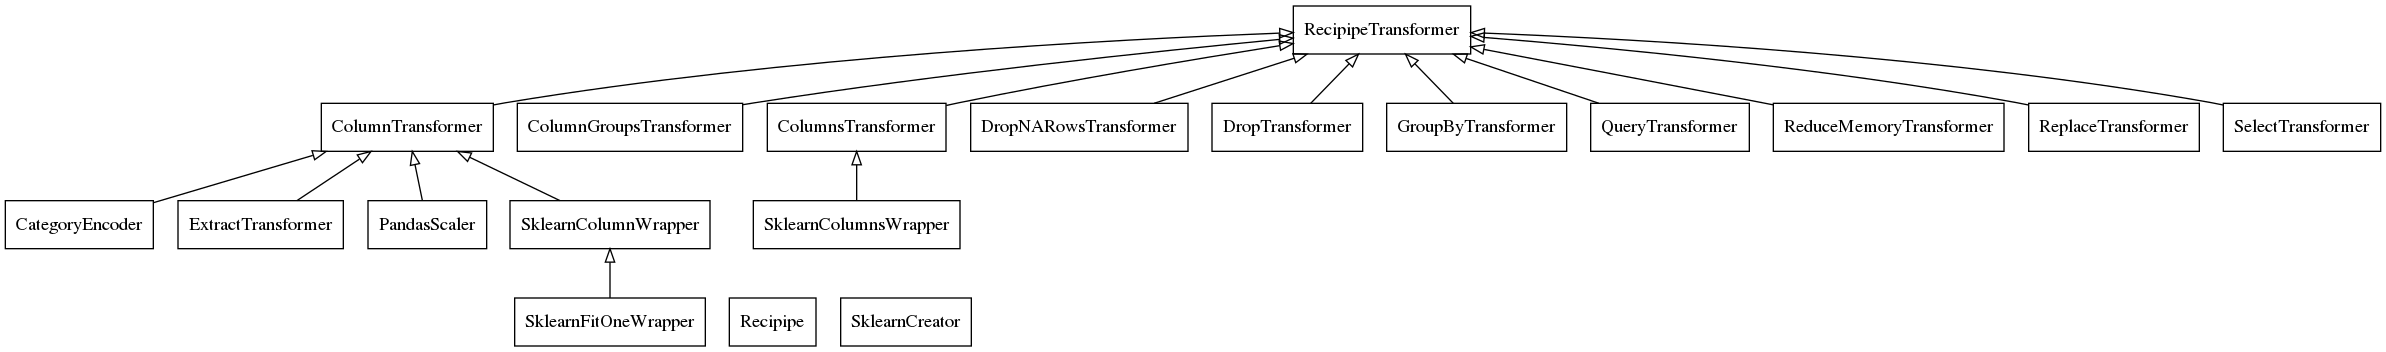
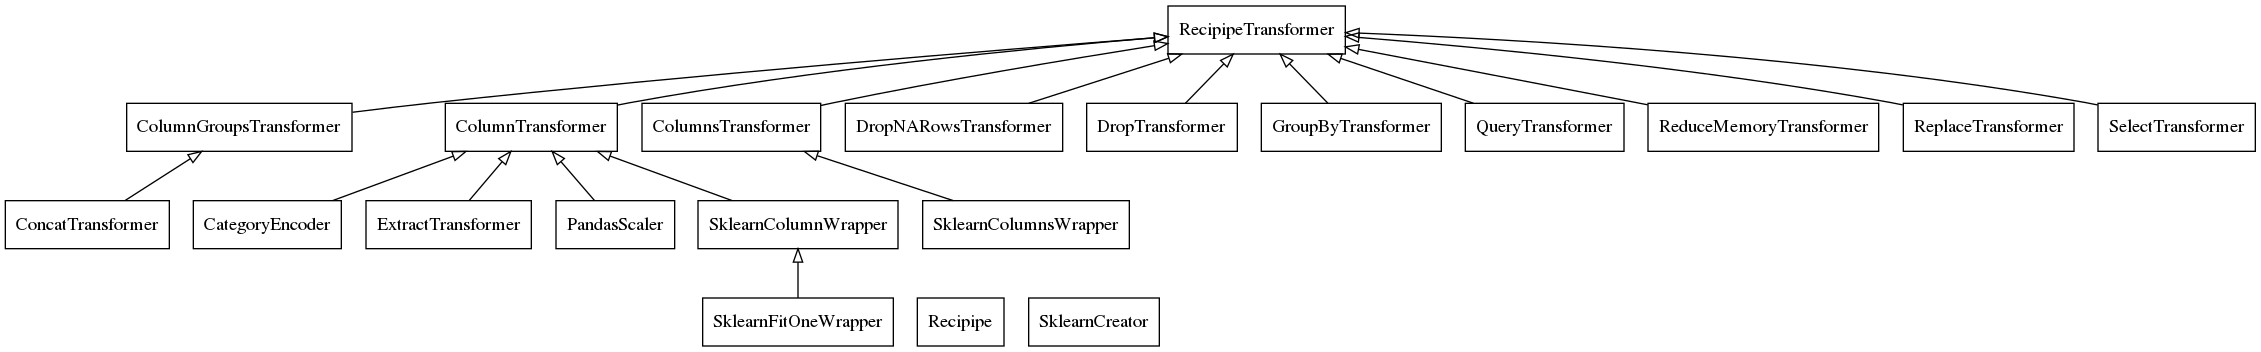
Deploying to gh-pages from  @ 91755f7912239962f2c9587c271de38e77a5c14c 🚀

diff --git a/searchindex.js b/searchindex.js
@@ -1,1 +1,1 @@
-Search.setIndex({docnames:["diagrams","index","installation","recipipe"],envversion:{"sphinx.domains.c":2,"sphinx.domains.changeset":1,"sphinx.domains.citation":1,"sphinx.domains.cpp":2,"sphinx.domains.index":1,"sphinx.domains.javascript":2,"sphinx.domains.math":2,"sphinx.domains.python":2,"sphinx.domains.rst":2,"sphinx.domains.std":1,"sphinx.ext.intersphinx":1,"sphinx.ext.viewcode":1,sphinx:56},filenames:["diagrams.rst","index.rst","installation.rst","recipipe.rst"],objects:{"":{recipipe:[3,0,0,"-"]},"recipipe.core":{Recipipe:[3,1,1,""],RecipipeTransformer:[3,1,1,""]},"recipipe.core.Recipipe":{__abstractmethods__:[3,2,1,""],__add__:[3,3,1,""],__init__:[3,3,1,""],__module__:[3,2,1,""],add:[3,3,1,""],steps:[3,2,1,""]},"recipipe.core.RecipipeTransformer":{__init__:[3,3,1,""],__module__:[3,2,1,""],fit:[3,3,1,""],get_column_mapping:[3,3,1,""],inverse_transform:[3,3,1,""],name:[3,2,1,""],transform:[3,3,1,""]},"recipipe.transformers":{CategoryEncoder:[3,1,1,""],ColumnGroupsTransformer:[3,1,1,""],ColumnTransformer:[3,1,1,""],ColumnsTransformer:[3,1,1,""],DropNARowsTransformer:[3,1,1,""],DropTransformer:[3,1,1,""],ExtractTransformer:[3,1,1,""],GroupByTransformer:[3,1,1,""],PandasScaler:[3,1,1,""],QueryTransformer:[3,1,1,""],ReduceMemoryTransformer:[3,1,1,""],ReplaceTransformer:[3,1,1,""],SelectTransformer:[3,1,1,""],SklearnColumnWrapper:[3,1,1,""],SklearnColumnsWrapper:[3,1,1,""],SklearnCreator:[3,1,1,""],SklearnFitOneWrapper:[3,1,1,""]},"recipipe.transformers.CategoryEncoder":{__init__:[3,3,1,""],__module__:[3,2,1,""]},"recipipe.transformers.ColumnGroupsTransformer":{__init__:[3,3,1,""],__module__:[3,2,1,""],get_column_mapping:[3,3,1,""]},"recipipe.transformers.ColumnTransformer":{__module__:[3,2,1,""],fit:[3,3,1,""]},"recipipe.transformers.ColumnsTransformer":{__module__:[3,2,1,""]},"recipipe.transformers.DropNARowsTransformer":{__init__:[3,3,1,""],__module__:[3,2,1,""],inverse_transform:[3,3,1,""],transform:[3,3,1,""]},"recipipe.transformers.DropTransformer":{__module__:[3,2,1,""],inverse_transform:[3,3,1,""],transform:[3,3,1,""]},"recipipe.transformers.ExtractTransformer":{__init__:[3,3,1,""],__module__:[3,2,1,""],get_column_mapping:[3,3,1,""]},"recipipe.transformers.GroupByTransformer":{__init__:[3,3,1,""],__module__:[3,2,1,""],fit:[3,3,1,""],fit_group:[3,3,1,""],inverse_transform:[3,3,1,""],inverse_transform_group:[3,3,1,""],transform:[3,3,1,""],transform_group:[3,3,1,""]},"recipipe.transformers.PandasScaler":{__init__:[3,3,1,""],__module__:[3,2,1,""]},"recipipe.transformers.QueryTransformer":{__init__:[3,3,1,""],__module__:[3,2,1,""],transform:[3,3,1,""]},"recipipe.transformers.ReduceMemoryTransformer":{__init__:[3,3,1,""],__module__:[3,2,1,""],transform:[3,3,1,""]},"recipipe.transformers.ReplaceTransformer":{__init__:[3,3,1,""],__module__:[3,2,1,""]},"recipipe.transformers.SelectTransformer":{__module__:[3,2,1,""],inverse_transform:[3,3,1,""],transform:[3,3,1,""]},"recipipe.transformers.SklearnColumnWrapper":{__init__:[3,3,1,""],__module__:[3,2,1,""],get_column_mapping:[3,3,1,""]},"recipipe.transformers.SklearnColumnsWrapper":{__init__:[3,3,1,""],__module__:[3,2,1,""],get_column_mapping:[3,3,1,""]},"recipipe.transformers.SklearnCreator":{WRAPPERS:[3,2,1,""],__call__:[3,3,1,""],__dict__:[3,2,1,""],__init__:[3,3,1,""],__module__:[3,2,1,""],__weakref__:[3,2,1,""]},"recipipe.transformers.SklearnFitOneWrapper":{__module__:[3,2,1,""]},"recipipe.utils":{add_to_map_dict:[3,4,1,""],default_params:[3,4,1,""],fit_columns:[3,4,1,""],flatten_list:[3,4,1,""],is_categorical:[3,4,1,""],memory_usage_mb:[3,4,1,""]},recipipe:{core:[3,0,0,"-"],greet:[3,4,1,""],transformers:[3,0,0,"-"],utils:[3,0,0,"-"]}},objnames:{"0":["py","module","Python module"],"1":["py","class","Python class"],"2":["py","attribute","Python attribute"],"3":["py","method","Python method"],"4":["py","function","Python function"]},objtypes:{"0":"py:module","1":"py:class","2":"py:attribute","3":"py:method","4":"py:function"},terms:{"class":[1,3],"default":3,"function":3,"import":[2,3],"int":3,"new":3,"return":3,"true":3,For:3,The:[2,3],Use:3,Using:2,__abstractmethods__:3,__add__:3,__call__:3,__dict__:3,__doc__:3,__init__:3,__module__:3,__weakref__:3,_new:3,about:3,accur:3,add:3,add_to_map_dict:3,after:3,alia:3,alias:1,all:[2,3],allow:3,alreadi:3,also:3,alwai:[2,3],ani:[2,3],anoth:3,another_fun:3,anytim:3,append:3,appli:3,arg:3,argument:3,assum:3,attr:3,attribut:3,automat:[2,3],avoid:3,back:3,base:3,baseestim:3,becaus:3,been:3,befor:3,between:3,big:3,binar:3,bool:3,both:3,branch:2,call:3,can:[2,3],cannot:3,captur:3,care:3,categor:3,categori:3,categoryencod:3,chain:3,chang:[2,3],check:3,clone:2,code:1,col:3,col_format:3,col_init:3,col_map:3,col_valu:3,cols_init:3,cols_list:3,cols_not_found_error:3,column:3,columngroupstransform:3,columnstransform:3,columntransform:3,com:2,combin:3,come:3,compat:3,complet:3,comput:3,concaten:3,consid:[2,3],constant:3,constrain:3,construct:3,contain:3,content:1,continu:3,convers:3,convert:3,copi:3,core:1,creat:3,creation:3,current:2,data:3,datafram:3,datatyp:3,deal:3,declar:3,deep:3,def:3,default_dict:3,default_param:3,defin:3,definit:3,delet:3,depend:2,develop:2,df_in:3,diagram:1,dict:3,dictionari:3,differ:3,directori:2,doc:2,doe:3,done:3,download:0,drop:3,drop_dupl:3,dropna:3,dropna_row:3,dropnarowstransform:3,droptransform:3,dtype:3,duplic:3,each:3,eas:3,easi:3,edit:2,element:3,empti:3,encod:3,end:3,environ:2,error:3,error_unknown:3,especi:3,even:3,everyth:2,exact:2,exactli:3,exampl:3,except:3,exclud:3,exclus:3,execut:[2,3],exist:3,extens:3,extra:2,extract:3,extracttransform:3,factor:3,fals:3,few:3,filenam:[2,3],filter:3,first:3,fist:3,fit:3,fit_column:3,fit_group:3,fit_one_col:3,flag:3,flatten:3,flatten_list:3,fnmatch:3,format:0,friendli:3,from:[1,3],from_sklearn:3,frozenset:3,full:0,fun:3,fun_kwarg:3,gener:[2,3],get:3,get_column_map:3,git:2,github:2,give:3,given:3,going:3,good:3,greet:[2,3],group:3,group_column:3,groupbi:3,groupbytransform:3,guiferviz:2,handle_unknown:3,has:3,hashabl:3,have:[2,3],help:3,here:3,how:3,http:2,human:3,ideal:3,ident:3,ignor:3,implement:3,improv:3,imput:3,includ:3,incorpor:3,index:1,indic:3,inform:3,initi:3,inplac:3,input:3,instal:1,instanc:3,instanti:3,instead:3,integ:3,invers:3,inverse_transform:3,inverse_transform_group:3,is_categor:3,isn:3,iter:3,joke:2,keep:3,keep_origin:3,kei:3,know:2,kwarg:3,later:3,latest:2,less:3,like:3,list:3,mai:3,make:3,mani:3,manual:3,map:3,mappingproxi:3,master:2,match:3,memori:3,memory_usag:3,memory_usage_mb:3,method:[2,3],minmax:3,minmaxscal:3,missingind:3,mode:2,modif:3,modifi:3,modul:1,more:3,much:3,must:3,name:3,ndarrai:3,need:[2,3],next:3,non:3,none:3,normal:3,note:3,now:3,num_column:3,number:3,numer:3,numpi:3,object:3,object_to_categori:3,obvious:3,occupi:3,one:3,onehot:3,onehotencod:3,ones:3,onli:3,oper:3,order:3,otherwis:3,output:3,over:3,overwrit:3,packag:[1,2],pain:3,panda:3,pandasscal:3,param:3,paramet:3,particular:3,pass:3,pattern:3,pdf:0,per:3,percentag:3,phase:3,pip:2,pipe:3,pipelin:3,place:3,placehold:3,possibl:3,preprocess:3,print:3,problem:2,process:3,product:2,program:2,project:[2,3],properli:2,provid:3,pypi:1,python:2,quantiti:3,queri:3,querytransform:3,rais:3,raise_error:3,realli:[2,3],reason:3,recipip:2,recipipetransform:3,recommend:2,recurs:3,reduc:3,reduce_memori:3,reducememorytransform:3,refer:3,regex:3,relat:3,relationship:3,remind:3,remov:3,replac:3,replacetransform:3,repositori:2,requir:[2,3],requirements_dev:2,respect:2,rest:3,result:3,reus:3,robust_scal:3,robustscal:3,root:2,row:3,run:2,same:3,satisfi:3,save:3,scale:3,scaler:3,scienc:3,screen:[2,3],see:[2,3],select:3,select_dtyp:3,selecttransform:3,self:3,sens:3,sentenc:3,seri:3,set:3,setuptool:2,sever:3,share:3,should:[2,3],show:3,shown:3,signatur:3,silli:3,similar:2,simpleimput:3,sk_binar:3,sk_indic:3,sk_input:3,sk_onehot:3,sk_scale:3,sk_transform:3,sklearn:3,sklearncolumnswrapp:3,sklearncolumnwrapp:3,sklearncreat:3,sklearnfitonewrapp:3,slow:3,solv:3,some:[2,3],someth:2,sourc:[1,3],spars:3,specif:3,specifi:3,split:3,standar:3,standard:3,standardscal:3,stdout:3,step:3,store:3,str:3,strategi:3,string:3,substitut:3,suport:3,support:3,sure:3,symbol:3,tabl:3,take:3,taken:3,test:1,than:3,thei:3,them:[2,3],thi:3,those:[2,3],thresh:3,time:3,too:3,transform:1,transform_group:3,transformermixin:3,tupl:3,twice:3,two:3,txt:2,type:3,uniqu:3,unix:3,unknown_valu:3,unpack:3,usag:3,use:[2,3],used:3,useful:3,user:3,using:[2,3],util:1,valu:3,valueerror:3,variabl:3,verbos:3,veri:3,version:2,virtual:2,wai:3,want:3,weak:3,well:2,when:3,where:3,which:3,without:3,work:[2,3],wrapper:3,you:[2,3],your:3,yourself:3},titles:["Diagrams","Welcome to Recipipe\u2019s documentation!","Installation","recipipe package"],titleterms:{"class":0,alias:3,code:2,core:3,diagram:0,document:1,from:2,indic:1,instal:2,modul:3,packag:[0,3],pypi:2,recipip:[1,3],sourc:2,test:2,transform:3,util:3,welcom:1}})
+Search.setIndex({docnames:["diagrams","index","installation","recipipe"],envversion:{"sphinx.domains.c":2,"sphinx.domains.changeset":1,"sphinx.domains.citation":1,"sphinx.domains.cpp":2,"sphinx.domains.index":1,"sphinx.domains.javascript":2,"sphinx.domains.math":2,"sphinx.domains.python":2,"sphinx.domains.rst":2,"sphinx.domains.std":1,"sphinx.ext.intersphinx":1,"sphinx.ext.viewcode":1,sphinx:56},filenames:["diagrams.rst","index.rst","installation.rst","recipipe.rst"],objects:{"":{recipipe:[3,0,0,"-"]},"recipipe.core":{Recipipe:[3,1,1,""],RecipipeTransformer:[3,1,1,""]},"recipipe.core.Recipipe":{__abstractmethods__:[3,2,1,""],__add__:[3,3,1,""],__init__:[3,3,1,""],__module__:[3,2,1,""],add:[3,3,1,""],steps:[3,2,1,""]},"recipipe.core.RecipipeTransformer":{__init__:[3,3,1,""],__module__:[3,2,1,""],fit:[3,3,1,""],get_column_mapping:[3,3,1,""],inverse_transform:[3,3,1,""],name:[3,2,1,""],transform:[3,3,1,""]},"recipipe.transformers":{CategoryEncoder:[3,1,1,""],ColumnGroupsTransformer:[3,1,1,""],ColumnTransformer:[3,1,1,""],ColumnsTransformer:[3,1,1,""],ConcatTransformer:[3,1,1,""],DropNARowsTransformer:[3,1,1,""],DropTransformer:[3,1,1,""],ExtractTransformer:[3,1,1,""],GroupByTransformer:[3,1,1,""],PandasScaler:[3,1,1,""],QueryTransformer:[3,1,1,""],ReduceMemoryTransformer:[3,1,1,""],ReplaceTransformer:[3,1,1,""],SelectTransformer:[3,1,1,""],SklearnColumnWrapper:[3,1,1,""],SklearnColumnsWrapper:[3,1,1,""],SklearnCreator:[3,1,1,""],SklearnFitOneWrapper:[3,1,1,""]},"recipipe.transformers.CategoryEncoder":{__init__:[3,3,1,""],__module__:[3,2,1,""]},"recipipe.transformers.ColumnGroupsTransformer":{__init__:[3,3,1,""],__module__:[3,2,1,""],get_column_mapping:[3,3,1,""]},"recipipe.transformers.ColumnTransformer":{__module__:[3,2,1,""],fit:[3,3,1,""]},"recipipe.transformers.ColumnsTransformer":{__module__:[3,2,1,""]},"recipipe.transformers.ConcatTransformer":{__init__:[3,3,1,""],__module__:[3,2,1,""]},"recipipe.transformers.DropNARowsTransformer":{__init__:[3,3,1,""],__module__:[3,2,1,""],inverse_transform:[3,3,1,""],transform:[3,3,1,""]},"recipipe.transformers.DropTransformer":{__module__:[3,2,1,""],inverse_transform:[3,3,1,""],transform:[3,3,1,""]},"recipipe.transformers.ExtractTransformer":{__init__:[3,3,1,""],__module__:[3,2,1,""],get_column_mapping:[3,3,1,""]},"recipipe.transformers.GroupByTransformer":{__init__:[3,3,1,""],__module__:[3,2,1,""],fit:[3,3,1,""],fit_group:[3,3,1,""],inverse_transform:[3,3,1,""],inverse_transform_group:[3,3,1,""],transform:[3,3,1,""],transform_group:[3,3,1,""]},"recipipe.transformers.PandasScaler":{__init__:[3,3,1,""],__module__:[3,2,1,""]},"recipipe.transformers.QueryTransformer":{__init__:[3,3,1,""],__module__:[3,2,1,""],transform:[3,3,1,""]},"recipipe.transformers.ReduceMemoryTransformer":{__init__:[3,3,1,""],__module__:[3,2,1,""],transform:[3,3,1,""]},"recipipe.transformers.ReplaceTransformer":{__init__:[3,3,1,""],__module__:[3,2,1,""]},"recipipe.transformers.SelectTransformer":{__module__:[3,2,1,""],inverse_transform:[3,3,1,""],transform:[3,3,1,""]},"recipipe.transformers.SklearnColumnWrapper":{__init__:[3,3,1,""],__module__:[3,2,1,""],get_column_mapping:[3,3,1,""]},"recipipe.transformers.SklearnColumnsWrapper":{__init__:[3,3,1,""],__module__:[3,2,1,""],get_column_mapping:[3,3,1,""]},"recipipe.transformers.SklearnCreator":{WRAPPERS:[3,2,1,""],__call__:[3,3,1,""],__dict__:[3,2,1,""],__init__:[3,3,1,""],__module__:[3,2,1,""],__weakref__:[3,2,1,""]},"recipipe.transformers.SklearnFitOneWrapper":{__module__:[3,2,1,""]},"recipipe.utils":{add_to_map_dict:[3,4,1,""],default_params:[3,4,1,""],fit_columns:[3,4,1,""],flatten_list:[3,4,1,""],is_categorical:[3,4,1,""],memory_usage_mb:[3,4,1,""]},recipipe:{core:[3,0,0,"-"],greet:[3,4,1,""],transformers:[3,0,0,"-"],utils:[3,0,0,"-"]}},objnames:{"0":["py","module","Python module"],"1":["py","class","Python class"],"2":["py","attribute","Python attribute"],"3":["py","method","Python method"],"4":["py","function","Python function"]},objtypes:{"0":"py:module","1":"py:class","2":"py:attribute","3":"py:method","4":"py:function"},terms:{"class":[1,3],"default":3,"function":3,"import":[2,3],"int":3,"new":3,"return":3,"true":3,For:3,The:[2,3],Use:3,Using:2,__abstractmethods__:3,__add__:3,__call__:3,__dict__:3,__doc__:3,__init__:3,__module__:3,__weakref__:3,_new:3,about:3,accur:3,add:3,add_to_map_dict:3,after:3,alia:3,alias:1,all:[2,3],allow:3,alreadi:3,also:3,alwai:[2,3],ani:[2,3],anoth:3,another_fun:3,anytim:3,append:3,appli:3,arg:3,argument:3,assum:3,attr:3,attribut:3,automat:[2,3],avoid:3,back:3,base:3,baseestim:3,becaus:3,been:3,befor:3,between:3,big:3,binar:3,bool:3,both:3,branch:2,call:3,can:[2,3],cannot:3,captur:3,care:3,categor:3,categori:3,categoryencod:3,chain:3,chang:[2,3],check:3,clone:2,code:1,col:3,col_format:3,col_init:3,col_map:3,col_valu:3,cols_init:3,cols_list:3,cols_not_found_error:3,column:3,columngroupstransform:3,columnstransform:3,columntransform:3,com:2,combin:3,come:3,compat:3,complet:3,comput:3,concat:3,concaten:3,concattransform:3,consid:[2,3],constant:3,constrain:3,construct:3,contain:3,content:1,continu:3,convers:3,convert:3,copi:3,core:1,creat:3,creation:3,current:2,data:3,datafram:3,datatyp:3,deal:3,declar:3,deep:3,def:3,default_dict:3,default_param:3,defin:3,definit:3,delet:3,depend:2,develop:2,df_in:3,diagram:1,dict:3,dictionari:3,differ:3,directori:2,doc:2,doe:3,done:3,download:0,drop:3,drop_dupl:3,dropna:3,dropna_row:3,dropnarowstransform:3,droptransform:3,dtype:3,duplic:3,each:3,eas:3,easi:3,edit:2,element:3,empti:3,encod:3,end:3,environ:2,error:3,error_unknown:3,especi:3,even:3,everyth:2,exact:2,exactli:3,exampl:3,except:3,exclud:3,exclus:3,execut:[2,3],exist:3,extens:3,extra:2,extract:3,extracttransform:3,factor:3,fals:3,few:3,filenam:[2,3],filter:3,first:3,fist:3,fit:3,fit_column:3,fit_group:3,fit_one_col:3,flag:3,flatten:3,flatten_list:3,fnmatch:3,format:0,friendli:3,from:[1,3],from_sklearn:3,frozenset:3,full:0,fun:3,fun_kwarg:3,gener:[2,3],get:3,get_column_map:3,git:2,github:2,give:3,given:3,going:3,good:3,greet:[2,3],group:3,group_column:3,groupbi:3,groupbytransform:3,guiferviz:2,handle_unknown:3,has:3,hashabl:3,have:[2,3],help:3,here:3,how:3,http:2,human:3,ideal:3,ident:3,ignor:3,implement:3,improv:3,imput:3,includ:3,incorpor:3,index:1,indic:3,inform:3,initi:3,inplac:3,input:3,instal:1,instanc:3,instanti:3,instead:3,integ:3,invers:3,inverse_transform:3,inverse_transform_group:3,is_categor:3,isn:3,iter:3,joke:2,keep:3,keep_origin:3,kei:3,know:2,kwarg:3,later:3,latest:2,less:3,like:3,list:3,mai:3,make:3,mani:3,manual:3,map:3,mappingproxi:3,master:2,match:3,memori:3,memory_usag:3,memory_usage_mb:3,method:[2,3],minmax:3,minmaxscal:3,missingind:3,mode:2,modif:3,modifi:3,modul:1,more:3,much:3,must:3,name:3,ndarrai:3,need:[2,3],next:3,non:3,none:3,normal:3,note:3,now:3,num_column:3,number:3,numer:3,numpi:3,object:3,object_to_categori:3,obvious:3,occupi:3,one:3,onehot:3,onehotencod:3,ones:3,onli:3,oper:3,order:3,otherwis:3,output:3,over:3,overwrit:3,packag:[1,2],pain:3,panda:3,pandasscal:3,param:3,paramet:3,particular:3,pass:3,pattern:3,pdf:0,per:3,percentag:3,phase:3,pip:2,pipe:3,pipelin:3,place:3,placehold:3,possibl:3,preprocess:3,print:3,problem:2,process:3,product:2,program:2,project:[2,3],properli:2,provid:3,pypi:1,python:2,quantiti:3,queri:3,querytransform:3,rais:3,raise_error:3,realli:[2,3],reason:3,recipip:2,recipipetransform:3,recommend:2,recurs:3,reduc:3,reduce_memori:3,reducememorytransform:3,refer:3,regex:3,relat:3,relationship:3,remind:3,remov:3,replac:3,replacetransform:3,repositori:2,requir:[2,3],requirements_dev:2,respect:2,rest:3,result:3,reus:3,robust_scal:3,robustscal:3,root:2,row:3,run:2,same:3,satisfi:3,save:3,scale:3,scaler:3,scienc:3,screen:[2,3],see:[2,3],select:3,select_dtyp:3,selecttransform:3,self:3,sens:3,sentenc:3,separ:3,seri:3,set:3,setuptool:2,sever:3,share:3,should:[2,3],show:3,shown:3,signatur:3,silli:3,similar:2,simpleimput:3,sk_binar:3,sk_indic:3,sk_input:3,sk_onehot:3,sk_scale:3,sk_transform:3,sklearn:3,sklearncolumnswrapp:3,sklearncolumnwrapp:3,sklearncreat:3,sklearnfitonewrapp:3,slow:3,solv:3,some:[2,3],someth:2,sourc:[1,3],spars:3,specif:3,specifi:3,split:3,standar:3,standard:3,standardscal:3,stdout:3,step:3,store:3,str:3,strategi:3,string:3,substitut:3,suport:3,support:3,sure:3,symbol:3,tabl:3,take:3,taken:3,test:1,than:3,thei:3,them:[2,3],thi:3,those:[2,3],thresh:3,time:3,too:3,transform:1,transform_group:3,transformermixin:3,tupl:3,twice:3,two:3,txt:2,type:3,uniqu:3,unix:3,unknown_valu:3,unpack:3,usag:3,use:[2,3],used:3,useful:3,user:3,using:[2,3],util:1,valu:3,valueerror:3,variabl:3,verbos:3,veri:3,version:2,virtual:2,wai:3,want:3,weak:3,well:2,when:3,where:3,which:3,without:3,work:[2,3],wrapper:3,you:[2,3],your:3,yourself:3},titles:["Diagrams","Welcome to Recipipe\u2019s documentation!","Installation","recipipe package"],titleterms:{"class":0,alias:3,code:2,core:3,diagram:0,document:1,from:2,indic:1,instal:2,modul:3,packag:[0,3],pypi:2,recipip:[1,3],sourc:2,test:2,transform:3,util:3,welcom:1}})

diff --git a/recipipe.html b/recipipe.html
@@ -191,73 +191,76 @@ Here is a complete table with all the aliases.</p>
 <tr class="row-odd"><td><p>category</p></td>
 <td><p><a class="reference internal" href="#recipipe.transformers.CategoryEncoder" title="recipipe.transformers.CategoryEncoder"><code class="xref py py-obj docutils literal notranslate"><span class="pre">recipipe.transformers.CategoryEncoder</span></code></a></p></td>
 </tr>
-<tr class="row-even"><td><p>extract</p></td>
+<tr class="row-even"><td><p>concat</p></td>
+<td><p><a class="reference internal" href="#recipipe.transformers.ConcatTransformer" title="recipipe.transformers.ConcatTransformer"><code class="xref py py-obj docutils literal notranslate"><span class="pre">recipipe.transformers.ConcatTransformer</span></code></a></p></td>
+</tr>
+<tr class="row-odd"><td><p>extract</p></td>
 <td><p><a class="reference internal" href="#recipipe.transformers.ExtractTransformer" title="recipipe.transformers.ExtractTransformer"><code class="xref py py-obj docutils literal notranslate"><span class="pre">recipipe.transformers.ExtractTransformer</span></code></a></p></td>
 </tr>
-<tr class="row-odd"><td><p>groupby</p></td>
+<tr class="row-even"><td><p>groupby</p></td>
 <td><p><a class="reference internal" href="#recipipe.transformers.GroupByTransformer" title="recipipe.transformers.GroupByTransformer"><code class="xref py py-obj docutils literal notranslate"><span class="pre">recipipe.transformers.GroupByTransformer</span></code></a></p></td>
 </tr>
-<tr class="row-even"><td><p>select</p></td>
+<tr class="row-odd"><td><p>select</p></td>
 <td><p><a class="reference internal" href="#recipipe.transformers.SelectTransformer" title="recipipe.transformers.SelectTransformer"><code class="xref py py-obj docutils literal notranslate"><span class="pre">recipipe.transformers.SelectTransformer</span></code></a></p></td>
 </tr>
-<tr class="row-odd"><td><p>drop</p></td>
+<tr class="row-even"><td><p>drop</p></td>
 <td><p><a class="reference internal" href="#recipipe.transformers.DropTransformer" title="recipipe.transformers.DropTransformer"><code class="xref py py-obj docutils literal notranslate"><span class="pre">recipipe.transformers.DropTransformer</span></code></a></p></td>
 </tr>
-<tr class="row-even"><td><p>dropna</p></td>
+<tr class="row-odd"><td><p>dropna</p></td>
 <td><p><a class="reference internal" href="#recipipe.transformers.DropNARowsTransformer" title="recipipe.transformers.DropNARowsTransformer"><code class="xref py py-obj docutils literal notranslate"><span class="pre">recipipe.transformers.DropNARowsTransformer</span></code></a></p></td>
 </tr>
-<tr class="row-odd"><td><p>dropna_rows</p></td>
+<tr class="row-even"><td><p>dropna_rows</p></td>
 <td><p><a class="reference internal" href="#recipipe.transformers.DropNARowsTransformer" title="recipipe.transformers.DropNARowsTransformer"><code class="xref py py-obj docutils literal notranslate"><span class="pre">recipipe.transformers.DropNARowsTransformer</span></code></a></p></td>
 </tr>
-<tr class="row-even"><td><p>query</p></td>
+<tr class="row-odd"><td><p>query</p></td>
 <td><p><a class="reference internal" href="#recipipe.transformers.QueryTransformer" title="recipipe.transformers.QueryTransformer"><code class="xref py py-obj docutils literal notranslate"><span class="pre">recipipe.transformers.QueryTransformer</span></code></a></p></td>
 </tr>
-<tr class="row-odd"><td><p>replace</p></td>
+<tr class="row-even"><td><p>replace</p></td>
 <td><p><a class="reference internal" href="#recipipe.transformers.ReplaceTransformer" title="recipipe.transformers.ReplaceTransformer"><code class="xref py py-obj docutils literal notranslate"><span class="pre">recipipe.transformers.ReplaceTransformer</span></code></a></p></td>
 </tr>
-<tr class="row-even"><td><p>reduce_memory</p></td>
+<tr class="row-odd"><td><p>reduce_memory</p></td>
 <td><p><a class="reference internal" href="#recipipe.transformers.ReduceMemoryTransformer" title="recipipe.transformers.ReduceMemoryTransformer"><code class="xref py py-obj docutils literal notranslate"><span class="pre">recipipe.transformers.ReduceMemoryTransformer</span></code></a></p></td>
 </tr>
-<tr class="row-odd"><td><p>from_sklearn</p></td>
+<tr class="row-even"><td><p>from_sklearn</p></td>
 <td><p><a class="reference internal" href="#recipipe.transformers.SklearnCreator" title="recipipe.transformers.SklearnCreator"><code class="xref py py-obj docutils literal notranslate"><span class="pre">recipipe.transformers.SklearnCreator</span></code></a></p></td>
 </tr>
-<tr class="row-even"><td><p>binarizer</p></td>
+<tr class="row-odd"><td><p>binarizer</p></td>
 <td><p><cite>from_sklearn(Binarizer())</cite></p></td>
 </tr>
-<tr class="row-odd"><td><p>impute</p></td>
+<tr class="row-even"><td><p>impute</p></td>
 <td><p><cite>from_sklearn(SimpleImputer(strategy=’constant’))</cite></p></td>
 </tr>
-<tr class="row-even"><td><p>indicator</p></td>
+<tr class="row-odd"><td><p>indicator</p></td>
 <td><p><cite>from_sklearn(MissingIndicator(),col_format=’INDICATOR({})’)</cite></p></td>
 </tr>
-<tr class="row-odd"><td><p>minmax</p></td>
+<tr class="row-even"><td><p>minmax</p></td>
 <td><p><cite>from_sklearn(MinMaxScaler())</cite></p></td>
 </tr>
-<tr class="row-even"><td><p>onehot</p></td>
+<tr class="row-odd"><td><p>onehot</p></td>
 <td><p><cite>from_sklearn(OneHotEncoder(sparse=False,handle_unknown=’ignore’))</cite></p></td>
 </tr>
-<tr class="row-odd"><td><p>robust_scale</p></td>
+<tr class="row-even"><td><p>robust_scale</p></td>
 <td><p><cite>from_sklearn(RobustScaler())</cite></p></td>
 </tr>
-<tr class="row-even"><td><p>scale</p></td>
+<tr class="row-odd"><td><p>scale</p></td>
 <td><p><cite>from_sklearn(StandardScaler())</cite></p></td>
 </tr>
-<tr class="row-odd"><td><p>standarize</p></td>
+<tr class="row-even"><td><p>standarize</p></td>
 <td><p><cite>from_sklearn(StandardScaler())</cite></p></td>
 </tr>
-<tr class="row-even"><td><p>sk_binarizer</p></td>
+<tr class="row-odd"><td><p>sk_binarizer</p></td>
 <td><p><a class="reference external" href="https://scikit-learn.org/stable/modules/generated/sklearn.preprocessing.Binarizer.html#sklearn.preprocessing.Binarizer" title="(in scikit-learn v0.23)"><code class="xref py py-obj docutils literal notranslate"><span class="pre">sklearn.preprocessing.Binarizer</span></code></a></p></td>
 </tr>
-<tr class="row-odd"><td><p>sk_indicator</p></td>
+<tr class="row-even"><td><p>sk_indicator</p></td>
 <td><p><a class="reference external" href="https://scikit-learn.org/stable/modules/generated/sklearn.impute.MissingIndicator.html#sklearn.impute.MissingIndicator" title="(in scikit-learn v0.23)"><code class="xref py py-obj docutils literal notranslate"><span class="pre">sklearn.impute.MissingIndicator</span></code></a></p></td>
 </tr>
-<tr class="row-even"><td><p>sk_inputer</p></td>
+<tr class="row-odd"><td><p>sk_inputer</p></td>
 <td><p><a class="reference external" href="https://scikit-learn.org/stable/modules/generated/sklearn.impute.SimpleImputer.html#sklearn.impute.SimpleImputer" title="(in scikit-learn v0.23)"><code class="xref py py-obj docutils literal notranslate"><span class="pre">sklearn.impute.SimpleImputer</span></code></a></p></td>
 </tr>
-<tr class="row-odd"><td><p>sk_onehot</p></td>
+<tr class="row-even"><td><p>sk_onehot</p></td>
 <td><p><a class="reference external" href="https://scikit-learn.org/stable/modules/generated/sklearn.preprocessing.OneHotEncoder.html#sklearn.preprocessing.OneHotEncoder" title="(in scikit-learn v0.23)"><code class="xref py py-obj docutils literal notranslate"><span class="pre">sklearn.preprocessing.OneHotEncoder</span></code></a></p></td>
 </tr>
-<tr class="row-even"><td><p>sk_scale</p></td>
+<tr class="row-odd"><td><p>sk_scale</p></td>
 <td><p><a class="reference external" href="https://scikit-learn.org/stable/modules/generated/sklearn.preprocessing.StandardScaler.html#sklearn.preprocessing.StandardScaler" title="(in scikit-learn v0.23)"><code class="xref py py-obj docutils literal notranslate"><span class="pre">sklearn.preprocessing.StandardScaler</span></code></a></p></td>
 </tr>
 </tbody>
@@ -707,6 +710,74 @@ as in the input DataFrame. No deletes are supported here.</p>
 <dl class="py attribute">
 <dt id="recipipe.transformers.ColumnsTransformer.__module__">
 <code class="sig-name descname">__module__</code><em class="property"> = 'recipipe.transformers'</em><a class="headerlink" href="#recipipe.transformers.ColumnsTransformer.__module__" title="Permalink to this definition">¶</a></dt>
+<dd></dd></dl>
+
+</dd></dl>
+
+<dl class="py class">
+<dt id="recipipe.transformers.ConcatTransformer">
+<em class="property">class </em><code class="sig-prename descclassname">recipipe.transformers.</code><code class="sig-name descname">ConcatTransformer</code><span class="sig-paren">(</span><em class="sig-param"><span class="o">*</span><span class="n">args</span></em>, <em class="sig-param"><span class="n">separator</span><span class="o">=</span><span class="default_value">''</span></em>, <em class="sig-param"><span class="o">**</span><span class="n">kwargs</span></em><span class="sig-paren">)</span><a class="reference internal" href="_modules/recipipe/transformers.html#ConcatTransformer"><span class="viewcode-link">[source]</span></a><a class="headerlink" href="#recipipe.transformers.ConcatTransformer" title="Permalink to this definition">¶</a></dt>
+<dd><p>Bases: <a class="reference internal" href="#recipipe.transformers.ColumnGroupsTransformer" title="recipipe.transformers.ColumnGroupsTransformer"><code class="xref py py-class docutils literal notranslate"><span class="pre">recipipe.transformers.ColumnGroupsTransformer</span></code></a></p>
+<dl class="py method">
+<dt id="recipipe.transformers.ConcatTransformer.__init__">
+<code class="sig-name descname">__init__</code><span class="sig-paren">(</span><em class="sig-param"><span class="o">*</span><span class="n">args</span></em>, <em class="sig-param"><span class="n">separator</span><span class="o">=</span><span class="default_value">''</span></em>, <em class="sig-param"><span class="o">**</span><span class="n">kwargs</span></em><span class="sig-paren">)</span><a class="reference internal" href="_modules/recipipe/transformers.html#ConcatTransformer.__init__"><span class="viewcode-link">[source]</span></a><a class="headerlink" href="#recipipe.transformers.ConcatTransformer.__init__" title="Permalink to this definition">¶</a></dt>
+<dd><p>Create a new transformer.</p>
+<p>Columns names can be use Unix filename pattern matching (
+<a class="reference external" href="https://docs.python.org/3/library/fnmatch.html#module-fnmatch" title="(in Python v3.8)"><code class="xref py py-obj docutils literal notranslate"><span class="pre">fnmatch</span></code></a>).</p>
+<dl class="field-list simple">
+<dt class="field-odd">Parameters</dt>
+<dd class="field-odd"><ul class="simple">
+<li><p><strong>*args</strong> (<a class="reference external" href="https://docs.python.org/3/library/stdtypes.html#list" title="(in Python v3.8)"><code class="xref py py-obj docutils literal notranslate"><span class="pre">list</span></code></a> of <a class="reference external" href="https://docs.python.org/3/library/stdtypes.html#str" title="(in Python v3.8)"><code class="xref py py-obj docutils literal notranslate"><span class="pre">str</span></code></a>) – List of columns the transformer
+will work on.</p></li>
+<li><p><strong>cols_init</strong> (<a class="reference external" href="https://docs.python.org/3/library/stdtypes.html#list" title="(in Python v3.8)"><code class="xref py py-obj docutils literal notranslate"><span class="pre">list</span></code></a> of <a class="reference external" href="https://docs.python.org/3/library/stdtypes.html#str" title="(in Python v3.8)"><code class="xref py py-obj docutils literal notranslate"><span class="pre">str</span></code></a>) – List of columns the
+transformer will work on. If <cite>*args</cite> are provided, this list
+of columns is going to be appended at the end.</p></li>
+<li><p><strong>exclude</strong> (<a class="reference external" href="https://docs.python.org/3/library/stdtypes.html#list" title="(in Python v3.8)"><code class="xref py py-obj docutils literal notranslate"><span class="pre">list</span></code></a> of <a class="reference external" href="https://docs.python.org/3/library/stdtypes.html#str" title="(in Python v3.8)"><code class="xref py py-obj docutils literal notranslate"><span class="pre">str</span></code></a>) – List of columns to exclude.
+The exclusion is applied after fitting the columns, so it can
+be used at the same time as <cite>*args</cite> and <cite>col_init</cite>.</p></li>
+</ul>
+</dd>
+</dl>
+<dl class="simple">
+<dt>:param dtype (<a class="reference external" href="https://numpy.org/doc/stable/reference/generated/numpy.dtype.html#numpy.dtype" title="(in NumPy v1.18)"><code class="xref py py-obj docutils literal notranslate"><span class="pre">numpy.dtype</span></code></a>, <a class="reference external" href="https://docs.python.org/3/library/stdtypes.html#str" title="(in Python v3.8)"><code class="xref py py-obj docutils literal notranslate"><span class="pre">str</span></code></a>, <a class="reference external" href="https://docs.python.org/3/library/stdtypes.html#list" title="(in Python v3.8)"><code class="xref py py-obj docutils literal notranslate"><span class="pre">list</span></code></a> of: <a class="reference external" href="https://numpy.org/doc/stable/reference/generated/numpy.dtype.html#numpy.dtype" title="(in NumPy v1.18)"><code class="xref py py-obj docutils literal notranslate"><span class="pre">numpy.dtype</span></code></a> or with <a class="reference external" href="https://docs.python.org/3/library/stdtypes.html#str" title="(in Python v3.8)"><code class="xref py py-obj docutils literal notranslate"><span class="pre">str</span></code></a> or <a class="reference external" href="https://docs.python.org/3/library/stdtypes.html#dict" title="(in Python v3.8)"><code class="xref py py-obj docutils literal notranslate"><span class="pre">dict</span></code></a>): This</dt><dd><p>value is passed to <a class="reference external" href="https://pandas.pydata.org/pandas-docs/stable/reference/api/pandas.DataFrame.select_dtypes.html#pandas.DataFrame.select_dtypes" title="(in pandas v1.0.4)"><code class="xref py py-obj docutils literal notranslate"><span class="pre">pandas.DataFrame.select_dtypes</span></code></a>.
+If a <a class="reference external" href="https://docs.python.org/3/library/stdtypes.html#dict" title="(in Python v3.8)"><code class="xref py py-obj docutils literal notranslate"><span class="pre">dict</span></code></a> is given, the Pandas function is going to be
+called with dictionary unpacking: <cite>select_dtypes(**dtype)</cite>.
+In this way you can exclude, for example, int dtypes using:
+<cite>dtype=dict(exclude=int)</cite>.
+The columns returned by this method (executed in the DataFrame
+passed to the fit method) will be the columns that are going
+to be used in the transformation phase.
+When used in combination with <cite>*args</cite> or <cite>cols_init</cite>, the dtype
+filter is applied later.</p>
+</dd>
+</dl>
+<dl class="field-list simple">
+<dt class="field-odd">Parameters</dt>
+<dd class="field-odd"><ul class="simple">
+<li><p><strong>name</strong> (<a class="reference external" href="https://docs.python.org/3/library/stdtypes.html#str" title="(in Python v3.8)"><code class="xref py py-obj docutils literal notranslate"><span class="pre">str</span></code></a>) – Human-friendly name of the transformer.</p></li>
+<li><p><strong>keep_original</strong> (<a class="reference external" href="https://docs.python.org/3/library/functions.html#bool" title="(in Python v3.8)"><code class="xref py py-obj docutils literal notranslate"><span class="pre">bool</span></code></a>) – <cite>True</cite> if you want to keep the input
+columns used in the transformer in the transformed DataFrame,
+<cite>False</cite> if not.
+Note that, if the output column has the same name as the input
+column, the output input column will not be included even if
+<cite>keep_original</cite> is set to <cite>True</cite>.
+Default: <cite>False</cite>.</p></li>
+<li><p><strong>col_format</strong> (<a class="reference external" href="https://docs.python.org/3/library/stdtypes.html#str" title="(in Python v3.8)"><code class="xref py py-obj docutils literal notranslate"><span class="pre">str</span></code></a>) – New name of the columns. Use “{}” in to
+substitute that placeholder by the column name. For example, if
+you want to append the string “_new” at the end of all the
+generated columns you must set <cite>col_format=”{}_new”</cite>.
+Default: “{}”.</p></li>
+<li><p><strong>cols_not_found_error</strong> (<a class="reference external" href="https://docs.python.org/3/library/functions.html#bool" title="(in Python v3.8)"><code class="xref py py-obj docutils literal notranslate"><span class="pre">bool</span></code></a>) – Raise an error if the isn’t
+any match for any of the specified columns.
+Default: <cite>False</cite>.</p></li>
+</ul>
+</dd>
+</dl>
+</dd></dl>
+
+<dl class="py attribute">
+<dt id="recipipe.transformers.ConcatTransformer.__module__">
+<code class="sig-name descname">__module__</code><em class="property"> = 'recipipe.transformers'</em><a class="headerlink" href="#recipipe.transformers.ConcatTransformer.__module__" title="Permalink to this definition">¶</a></dt>
 <dd></dd></dl>
 
 </dd></dl>

diff --git a/_modules/recipipe/transformers.html b/_modules/recipipe/transformers.html
@@ -905,6 +905,16 @@
             <span class="n">df_out</span> <span class="o">=</span> <span class="n">df_out</span><span class="o">.</span><span class="n">notna</span><span class="p">()</span><span class="o">.</span><span class="n">astype</span><span class="p">(</span><span class="s2">&quot;int8&quot;</span><span class="p">)</span>
         <span class="k">return</span> <span class="n">df_out</span><span class="o">.</span><span class="n">values</span></div>
 
+
+<div class="viewcode-block" id="ConcatTransformer"><a class="viewcode-back" href="../../recipipe.html#recipipe.transformers.ConcatTransformer">[docs]</a><span class="k">class</span> <span class="nc">ConcatTransformer</span><span class="p">(</span><span class="n">ColumnGroupsTransformer</span><span class="p">):</span>
+
+<div class="viewcode-block" id="ConcatTransformer.__init__"><a class="viewcode-back" href="../../recipipe.html#recipipe.transformers.ConcatTransformer.__init__">[docs]</a>    <span class="k">def</span> <span class="fm">__init__</span><span class="p">(</span><span class="bp">self</span><span class="p">,</span> <span class="o">*</span><span class="n">args</span><span class="p">,</span> <span class="n">separator</span><span class="o">=</span><span class="s2">&quot;&quot;</span><span class="p">,</span> <span class="o">**</span><span class="n">kwargs</span><span class="p">):</span>
+        <span class="nb">super</span><span class="p">()</span><span class="o">.</span><span class="fm">__init__</span><span class="p">(</span><span class="o">*</span><span class="n">args</span><span class="p">,</span> <span class="o">**</span><span class="n">kwargs</span><span class="p">)</span>
+        <span class="bp">self</span><span class="o">.</span><span class="n">separator</span> <span class="o">=</span> <span class="n">separator</span></div>
+
+    <span class="k">def</span> <span class="nf">_transform_group</span><span class="p">(</span><span class="bp">self</span><span class="p">,</span> <span class="n">df</span><span class="p">,</span> <span class="n">group_cols</span><span class="p">):</span>
+        <span class="k">return</span> <span class="n">df</span><span class="p">[</span><span class="n">group_cols</span><span class="p">]</span><span class="o">.</span><span class="n">astype</span><span class="p">(</span><span class="nb">str</span><span class="p">)</span><span class="o">.</span><span class="n">agg</span><span class="p">(</span><span class="bp">self</span><span class="o">.</span><span class="n">separator</span><span class="o">.</span><span class="n">join</span><span class="p">,</span> <span class="n">axis</span><span class="o">=</span><span class="mi">1</span><span class="p">)</span></div>
+
 </pre></div>
 
            </div>

diff --git a/_modules/recipipe.html b/_modules/recipipe.html
@@ -173,6 +173,7 @@
 <span class="kn">from</span> <span class="nn">recipipe.transformers</span> <span class="kn">import</span> <span class="n">ColumnTransformer</span>
 <span class="kn">from</span> <span class="nn">recipipe.transformers</span> <span class="kn">import</span> <span class="n">ColumnGroupsTransformer</span>
 <span class="kn">from</span> <span class="nn">recipipe.transformers</span> <span class="kn">import</span> <span class="n">ColumnsTransformer</span>
+<span class="kn">from</span> <span class="nn">recipipe.transformers</span> <span class="kn">import</span> <span class="n">ConcatTransformer</span>
 <span class="kn">from</span> <span class="nn">recipipe.transformers</span> <span class="kn">import</span> <span class="n">DropTransformer</span>
 <span class="kn">from</span> <span class="nn">recipipe.transformers</span> <span class="kn">import</span> <span class="n">DropNARowsTransformer</span>
 <span class="kn">from</span> <span class="nn">recipipe.transformers</span> <span class="kn">import</span> <span class="n">ExtractTransformer</span>
@@ -201,6 +202,7 @@
 <span class="c1">##############################################</span>
 <span class="n">recipipe</span> <span class="o">=</span> <span class="n">Recipipe</span>
 <span class="n">category</span> <span class="o">=</span> <span class="n">CategoryEncoder</span>
+<span class="n">concat</span> <span class="o">=</span> <span class="n">ConcatTransformer</span>
 <span class="n">extract</span> <span class="o">=</span> <span class="n">ExtractTransformer</span>
 <span class="n">groupby</span> <span class="o">=</span> <span class="n">GroupByTransformer</span>
 <span class="n">select</span> <span class="o">=</span> <span class="n">SelectTransformer</span>

diff --git a/genindex.html b/genindex.html
@@ -195,6 +195,8 @@
 </li>
         <li><a href="recipipe.html#recipipe.transformers.ColumnGroupsTransformer.__init__">(recipipe.transformers.ColumnGroupsTransformer method)</a>
 </li>
+        <li><a href="recipipe.html#recipipe.transformers.ConcatTransformer.__init__">(recipipe.transformers.ConcatTransformer method)</a>
+</li>
         <li><a href="recipipe.html#recipipe.transformers.DropNARowsTransformer.__init__">(recipipe.transformers.DropNARowsTransformer method)</a>
 </li>
         <li><a href="recipipe.html#recipipe.transformers.ExtractTransformer.__init__">(recipipe.transformers.ExtractTransformer method)</a>
@@ -228,6 +230,8 @@
         <li><a href="recipipe.html#recipipe.transformers.ColumnsTransformer.__module__">(recipipe.transformers.ColumnsTransformer attribute)</a>
 </li>
         <li><a href="recipipe.html#recipipe.transformers.ColumnTransformer.__module__">(recipipe.transformers.ColumnTransformer attribute)</a>
+</li>
+        <li><a href="recipipe.html#recipipe.transformers.ConcatTransformer.__module__">(recipipe.transformers.ConcatTransformer attribute)</a>
 </li>
         <li><a href="recipipe.html#recipipe.transformers.DropNARowsTransformer.__module__">(recipipe.transformers.DropNARowsTransformer attribute)</a>
 </li>
@@ -287,6 +291,8 @@
       <li><a href="recipipe.html#recipipe.transformers.ColumnsTransformer">ColumnsTransformer (class in recipipe.transformers)</a>
 </li>
       <li><a href="recipipe.html#recipipe.transformers.ColumnTransformer">ColumnTransformer (class in recipipe.transformers)</a>
+</li>
+      <li><a href="recipipe.html#recipipe.transformers.ConcatTransformer">ConcatTransformer (class in recipipe.transformers)</a>
 </li>
   </ul></td>
 </tr></table>
